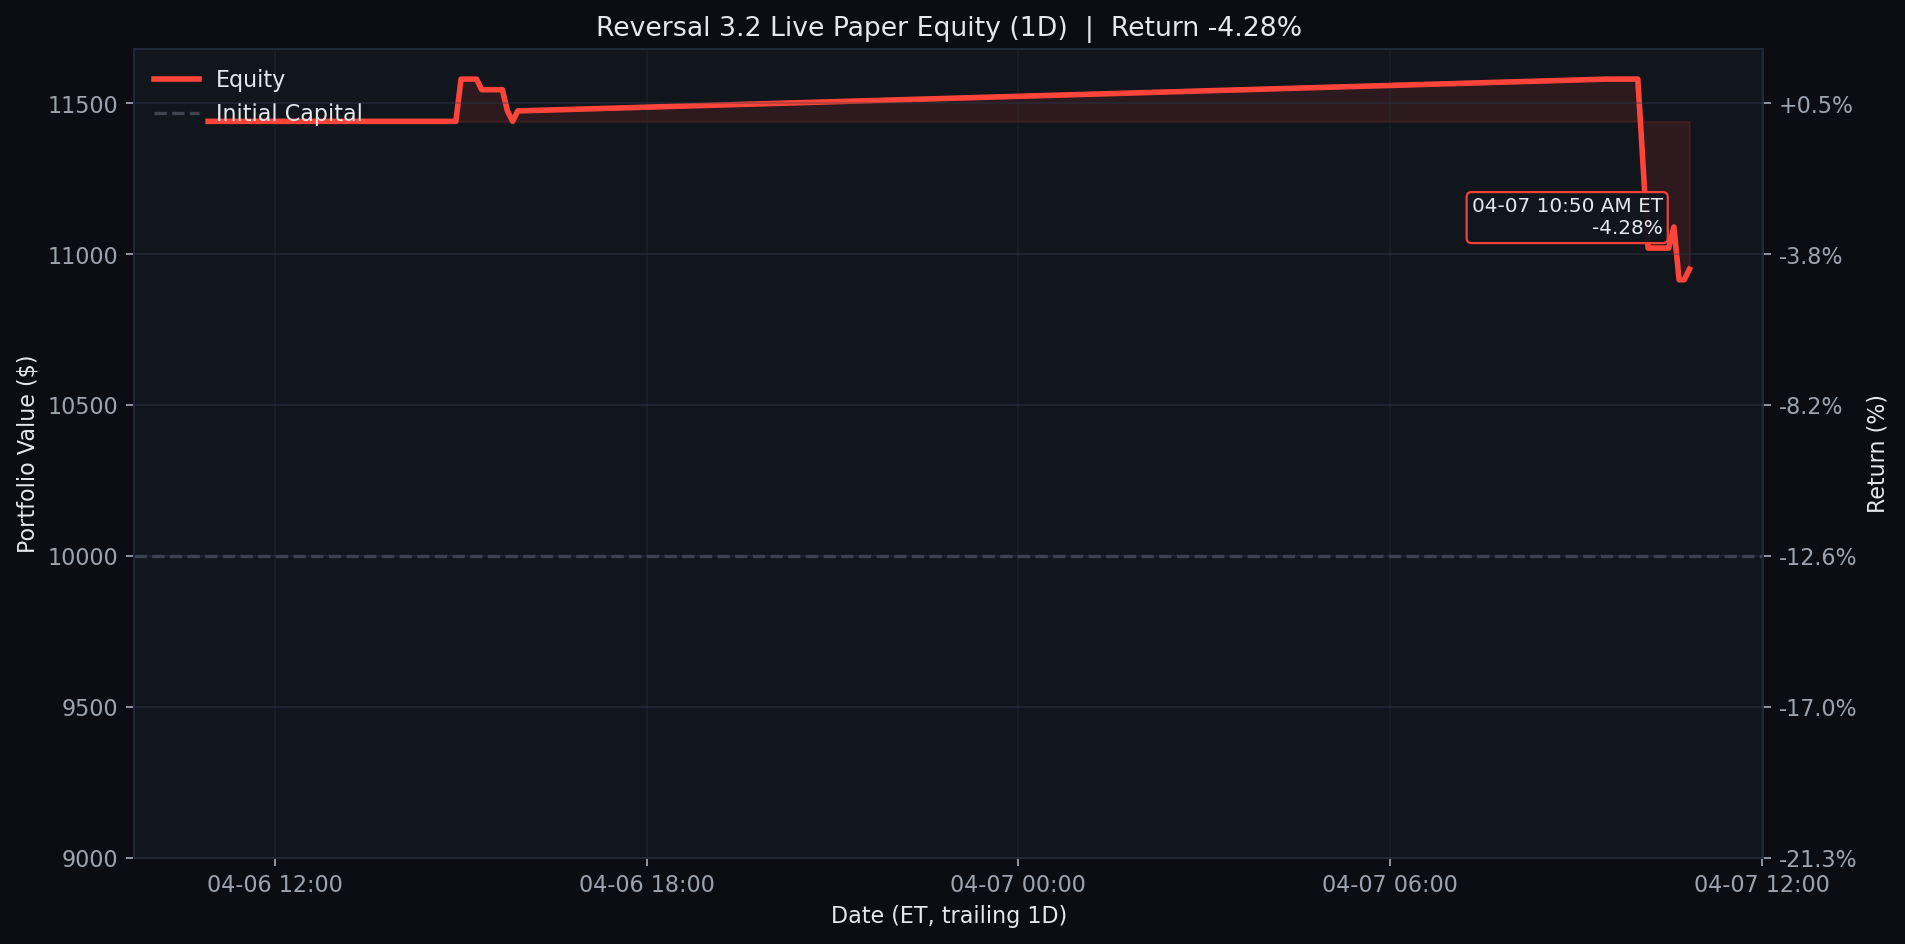
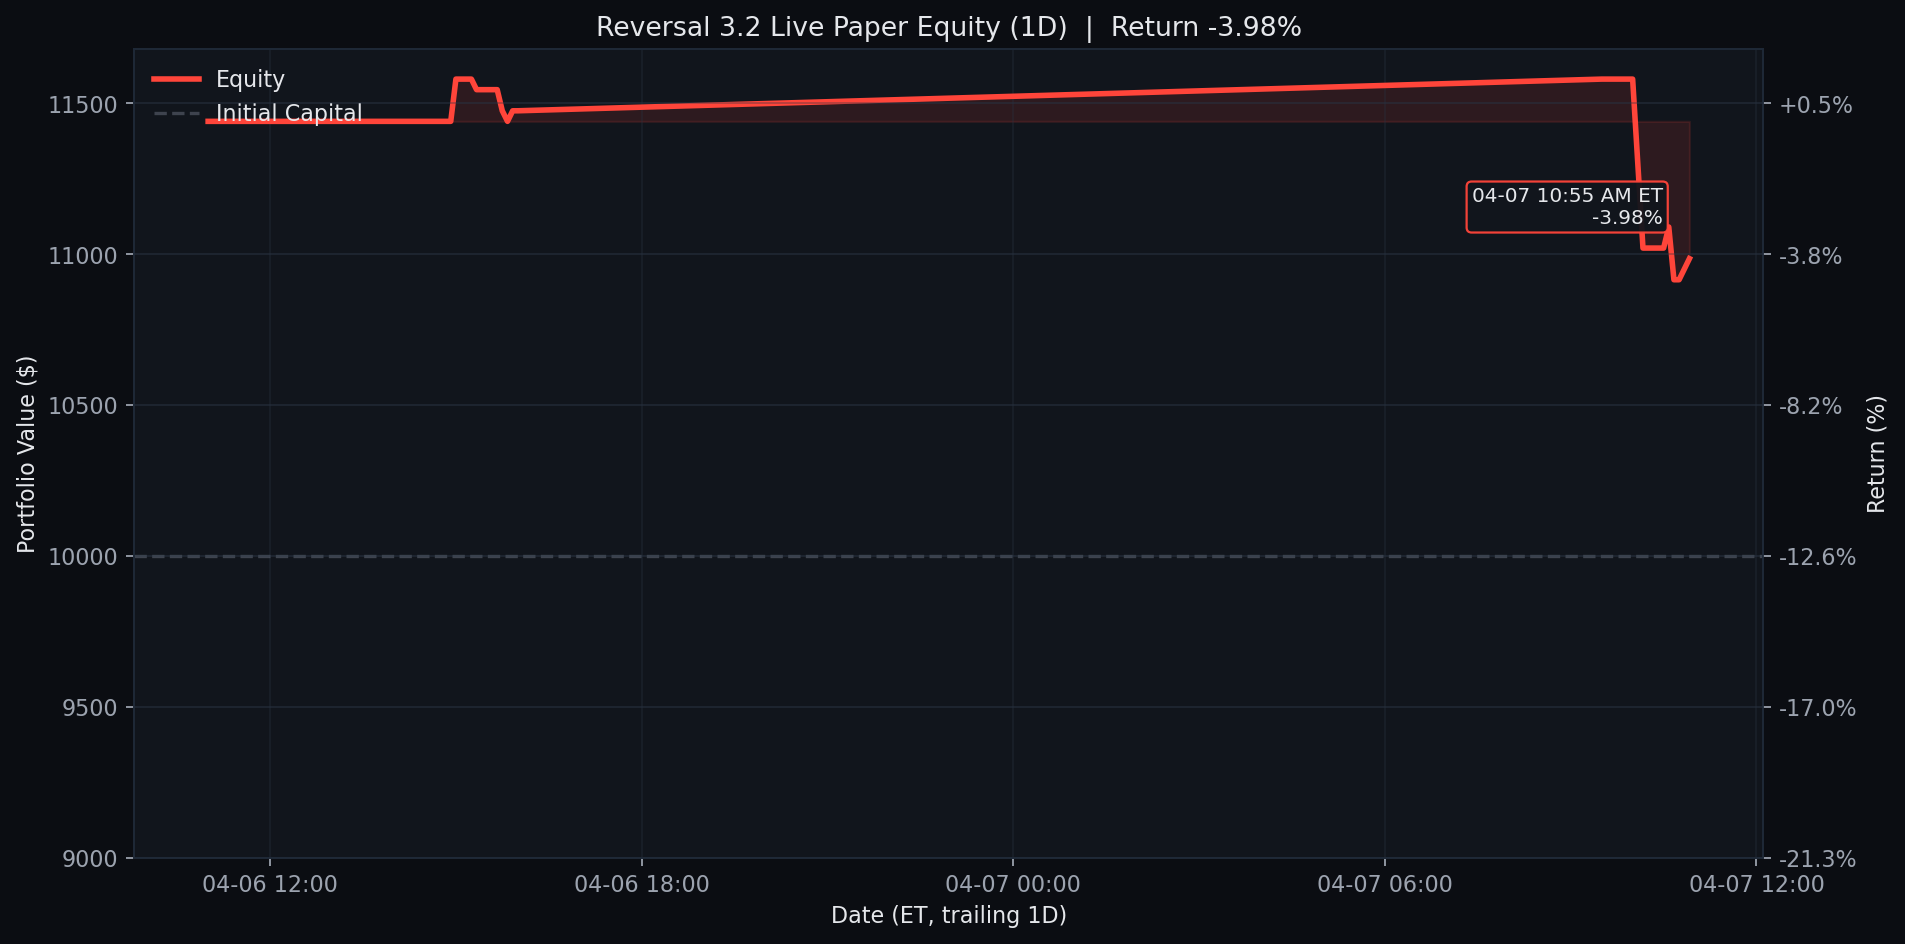
Update Reversal 3.2 live paper test 2026-04-07 10:55 ET

diff --git a/results/reversal_3_2_live/README.md b/results/reversal_3_2_live/README.md
@@ -1,6 +1,6 @@
 # Reversal 3.2 Live Paper Test
 
-Last updated (ET): `2026-04-07 10:50:05 EDT`
+Last updated (ET): `2026-04-07 10:55:05 EDT`
 Last processed slot: `manage_1100`
 
 ## Active Configuration
@@ -20,16 +20,16 @@ Last processed slot: `manage_1100`
 ## Portfolio Snapshot
 
 - Cash: `$6,260.00`
-- Equity: `$10,950.00`
+- Equity: `$10,985.00`
 - Realized PnL: `$1,440.00`
-- Unrealized PnL: `$-490.00`
+- Unrealized PnL: `$-455.00`
 - Open positions: `1`
 
 ## Open Positions
 
 ```text
 ticker    contract_symbol entry_trade_date  business_days_held  contracts  cash_spent  current_position_value  entry_option_price  current_option_price  entry_spot  current_spot  unrealized_pnl  unrealized_return_pct  success_rate  matched_signals  current_drop_pct  entry_iv_pct  current_iv_pct  rolling_sigma_20d_pct
-   HON HON260515C00230000       2026-04-06                   1          7      5180.0                  4690.0                 7.4                   6.7      227.61         225.2          -490.0                  -9.46         100.0               20               0.8         28.89           30.66                  20.57
+   HON HON260515C00230000       2026-04-06                   1          7      5180.0                  4725.0                 7.4                  6.75      227.61        224.63          -455.0                  -8.78         100.0               20               0.8         28.89           31.86                  20.57
 ```
 
 ## Today's Closed Trades (2026-04-07)
@@ -40,24 +40,25 @@ _None_
 
 ```text
 ticker  success_rate_%  matched_signals  current_drop_%  target_rebound_$  target_price  rolling_sigma_20d_%  call_candidate
-   HON          100.00               11            1.28              2.05        227.33                20.19            True
-  REGN           96.77               31            1.04              5.57        760.65                25.24            True
-  MRVL           96.00               25            2.05              1.57        108.84                70.84            True
-  NVDA           95.65               23            1.60              1.98        176.79                33.70            True
-  FAST           91.43               35            0.64              0.21         45.78                20.98            True
-  MPWR           91.18               34            1.21              9.99       1175.75                51.99            True
-  CDNS           90.91               44            0.85              1.66        278.68                25.26            True
-   MAR           90.91               33            0.88              2.08        337.11                25.97            True
-  UPRO           90.91               22            2.40              1.69        100.01                53.86            True
-  ABNB           89.29               28            1.46              1.30        126.25                36.80            True
-  GILD           88.46               26            0.74              0.72        139.82                20.18            True
-  VRTX           88.00               25            1.58              4.81        432.24                40.01            True
+   HON          100.00               10            1.48              2.36        227.20                20.19            True
+  REGN           96.00               25            1.23              6.56        760.23                25.24            True
+  MRVL           95.65               23            2.58              1.98        108.66                70.84            True
+  NVDA           95.65               23            1.66              2.06        176.76                33.70            True
+  MPWR           91.18               34            1.29             10.63       1175.47                51.99            True
+   MAR           90.91               33            0.86              2.02        337.13                25.97            True
+  UPRO           90.91               22            2.49              1.76         99.99                53.86            True
+  FAST           90.62               32            0.71              0.23         45.77                20.98            True
+  CDNS           90.48               42            1.00              1.96        278.55                25.26            True
+  DDOG           88.89               27            1.83              1.49        115.86                49.06            True
+  GILD           88.46               26            0.69              0.68        139.84                20.18            True
+   KDP           88.24               17            0.76              0.14         25.64                20.32            True
 ```
 
 ## Recent Events
 
 ```text
                     timestamp_et        slot   event_type                          detail
+2026-04-07T10:55:05.886961-04:00 manage_1100 slot_skipped {"reason": "already_processed"}
 2026-04-07T10:40:05.892021-04:00 manage_1030 slot_skipped {"reason": "already_processed"}
 2026-04-07T10:35:05.885837-04:00 manage_1030 slot_skipped {"reason": "already_processed"}
 2026-04-07T10:30:05.884012-04:00 manage_1030 slot_skipped {"reason": "already_processed"}
@@ -67,7 +68,6 @@ ticker  success_rate_%  matched_signals  current_drop_%  target_rebound_$  targe
 2026-04-07T10:00:05.892155-04:00 manage_1000 slot_skipped {"reason": "already_processed"}
 2026-04-07T09:55:05.880017-04:00 manage_1000 slot_skipped {"reason": "already_processed"}
 2026-04-07T09:40:05.898554-04:00 manage_0930 slot_skipped {"reason": "already_processed"}
-2026-04-07T09:35:05.899056-04:00 manage_0930 slot_skipped {"reason": "already_processed"}
 ```
 
 ## Equity Curves
@@ -77,20 +77,20 @@ Each chart is generated from the same live equity series with no-lookahead marks
 <details>
 <summary><strong>1D</strong></summary>
 
-![Reversal 3.2 Live Equity 1D](../../assets/reversal_3_2_live_equity_1d.png?v=20260407105005)
+![Reversal 3.2 Live Equity 1D](../../assets/reversal_3_2_live_equity_1d.png?v=20260407105505)
 
 </details>
 
 <details open>
 <summary><strong>1W</strong></summary>
 
-![Reversal 3.2 Live Equity 1W](../../assets/reversal_3_2_live_equity.png?v=20260407105005)
+![Reversal 3.2 Live Equity 1W](../../assets/reversal_3_2_live_equity.png?v=20260407105505)
 
 </details>
 
 <details>
 <summary><strong>1M</strong></summary>
 
-![Reversal 3.2 Live Equity 1M](../../assets/reversal_3_2_live_equity_1m.png?v=20260407105005)
+![Reversal 3.2 Live Equity 1M](../../assets/reversal_3_2_live_equity_1m.png?v=20260407105505)
 
 </details>

diff --git a/README.md b/README.md
@@ -3,8 +3,8 @@
 <!-- reversal-3.2-live:start -->
 ## Reversal 3.2 Live Paper Test
 
-- Last updated (ET): `2026-04-07 10:50:05 EDT`
-- Equity: `$10,950.00` | Realized: `$1,440.00` | Unrealized: `$-490.00` | Open positions: `1`
+- Last updated (ET): `2026-04-07 10:55:05 EDT`
+- Equity: `$10,985.00` | Realized: `$1,440.00` | Unrealized: `$-455.00` | Open positions: `1`
 - Today closed trades: `0`
 - Current slot: `manage_1100`
 - Universe: `qqq_plus_leverage_etfs`
@@ -14,27 +14,27 @@
 
 ```text
 ticker    contract_symbol  contracts  cash_spent  current_position_value  current_option_price  unrealized_pnl  unrealized_return_pct  business_days_held
-   HON HON260515C00230000          7      5180.0                  4690.0                   6.7          -490.0                  -9.46                   1
+   HON HON260515C00230000          7      5180.0                  4725.0                  6.75          -455.0                  -8.78                   1
 ```
 
 <details>
 <summary><strong>1D</strong></summary>
 
-![Reversal 3.2 Live Equity 1D](assets/reversal_3_2_live_equity_1d.png?v=20260407105005)
+![Reversal 3.2 Live Equity 1D](assets/reversal_3_2_live_equity_1d.png?v=20260407105505)
 
 </details>
 
 <details open>
 <summary><strong>1W</strong></summary>
 
-![Reversal 3.2 Live Equity 1W](assets/reversal_3_2_live_equity.png?v=20260407105005)
+![Reversal 3.2 Live Equity 1W](assets/reversal_3_2_live_equity.png?v=20260407105505)
 
 </details>
 
 <details>
 <summary><strong>1M</strong></summary>
 
-![Reversal 3.2 Live Equity 1M](assets/reversal_3_2_live_equity_1m.png?v=20260407105005)
+![Reversal 3.2 Live Equity 1M](assets/reversal_3_2_live_equity_1m.png?v=20260407105505)
 
 </details>
 
